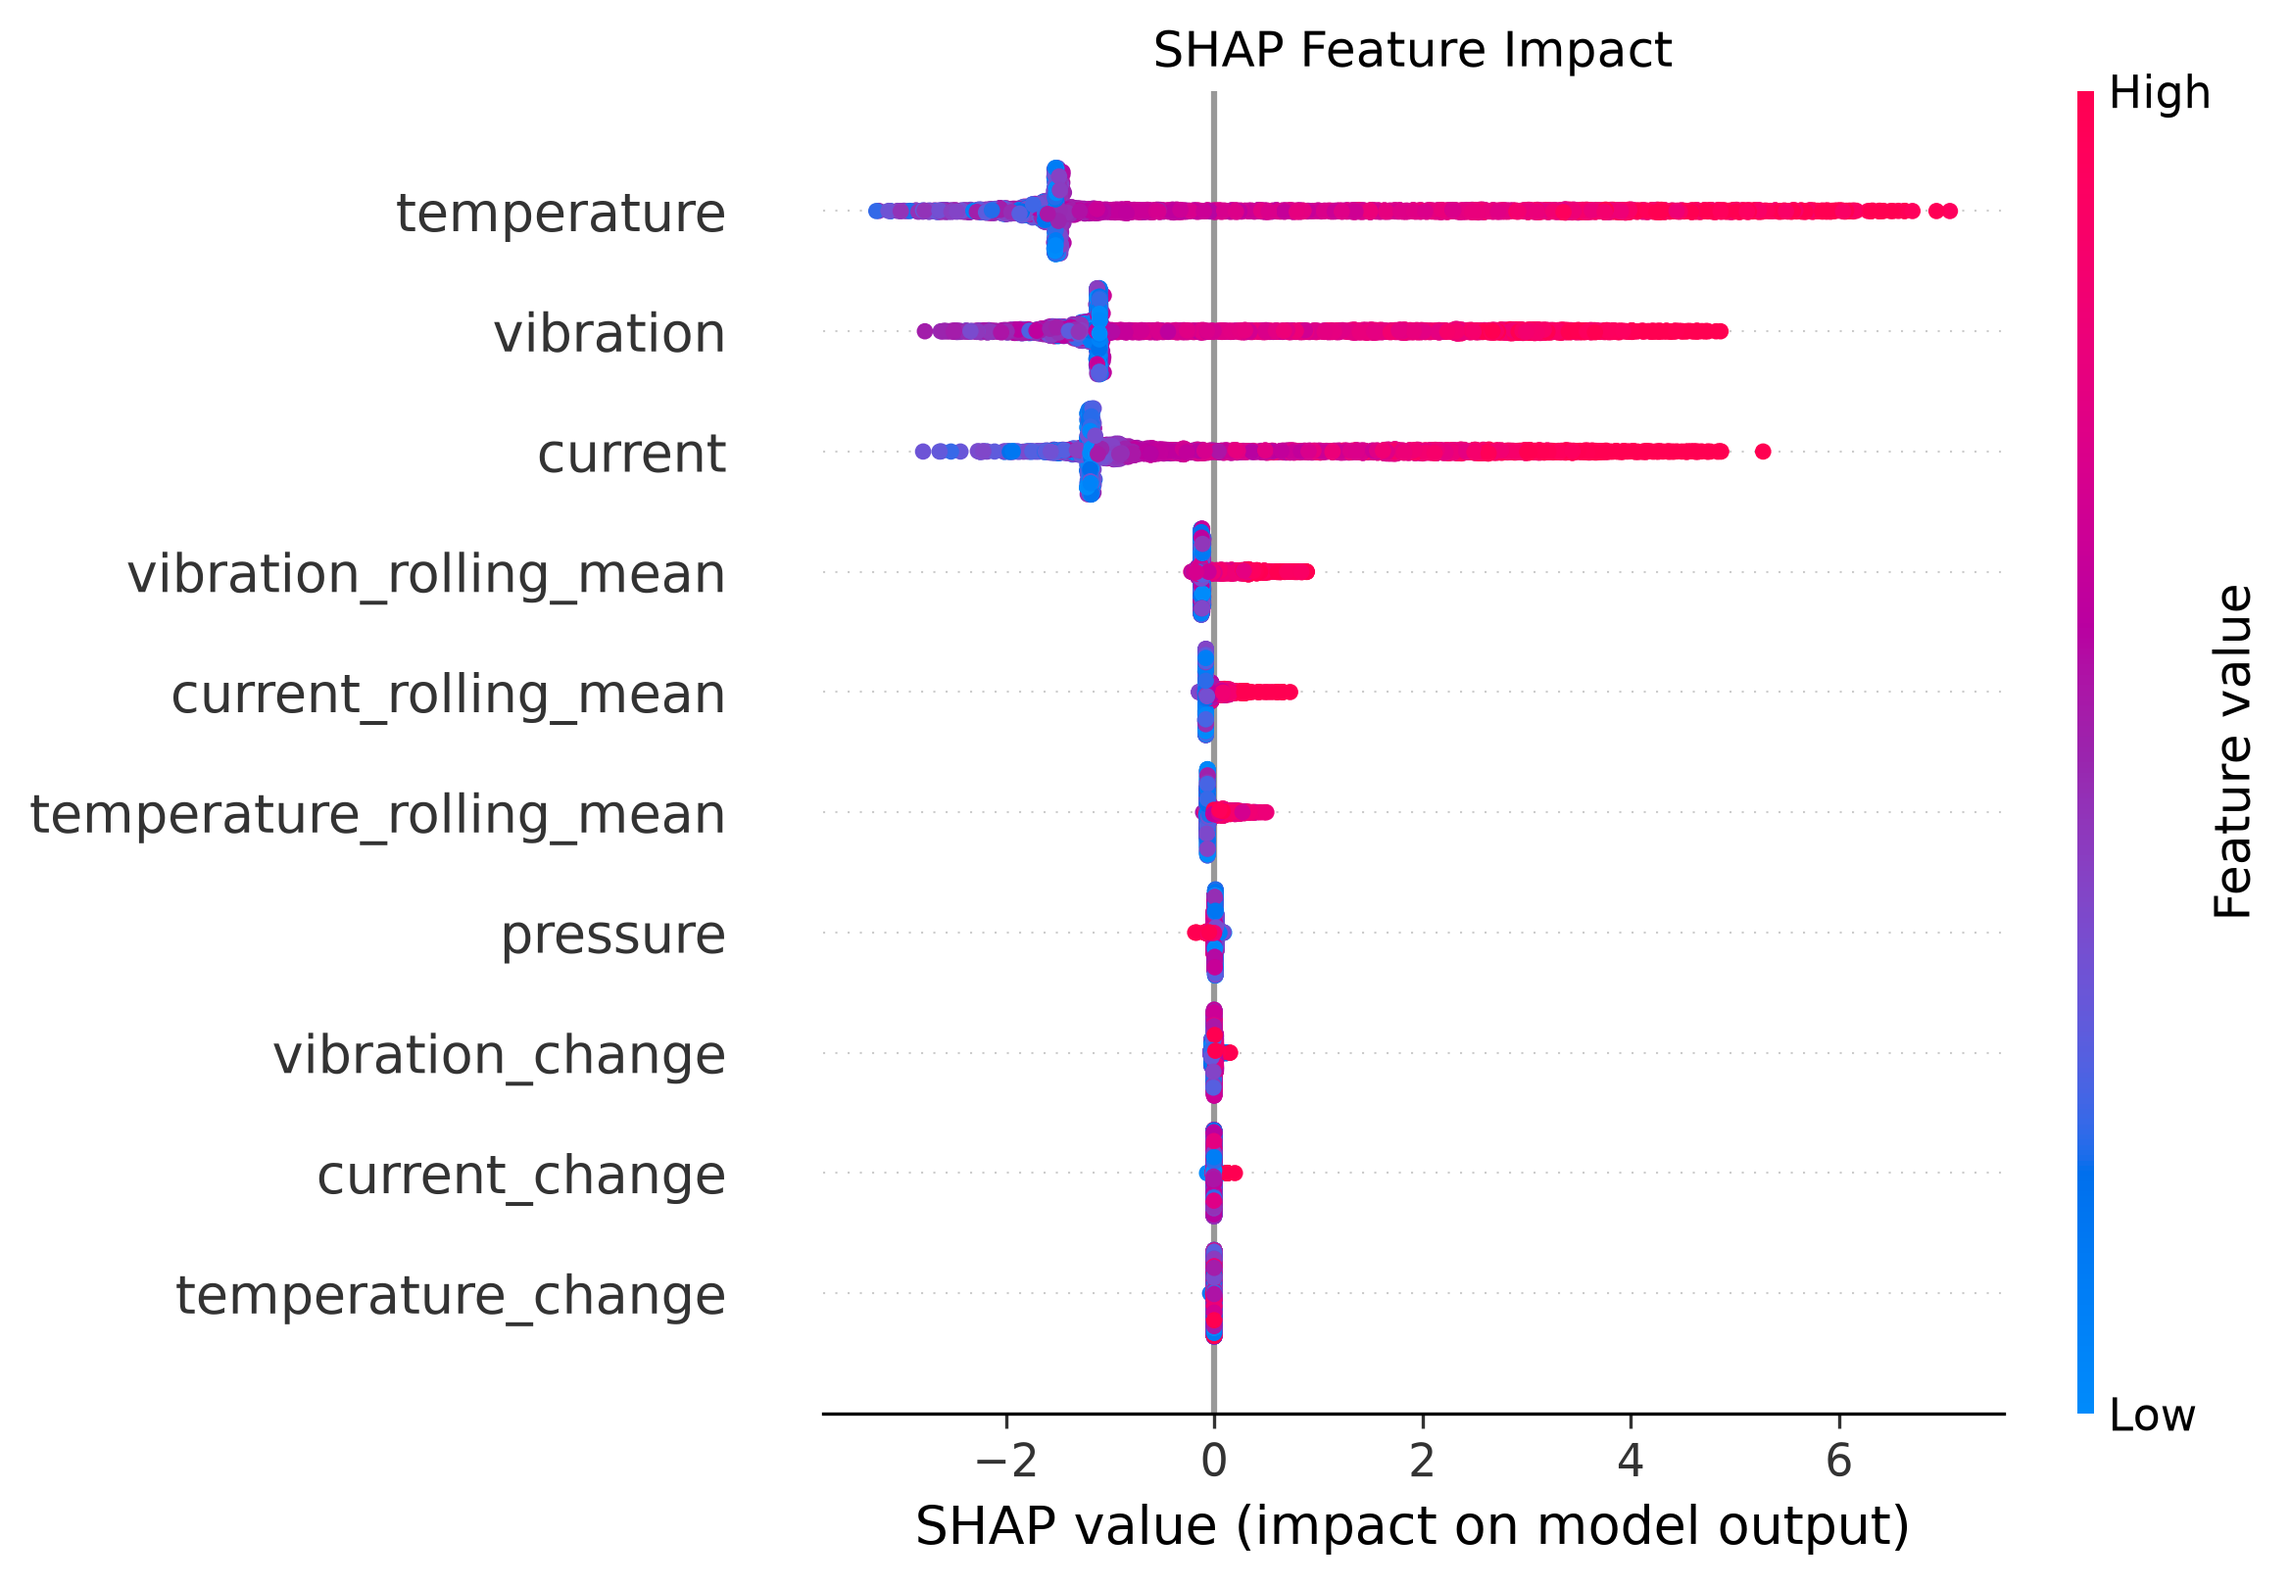
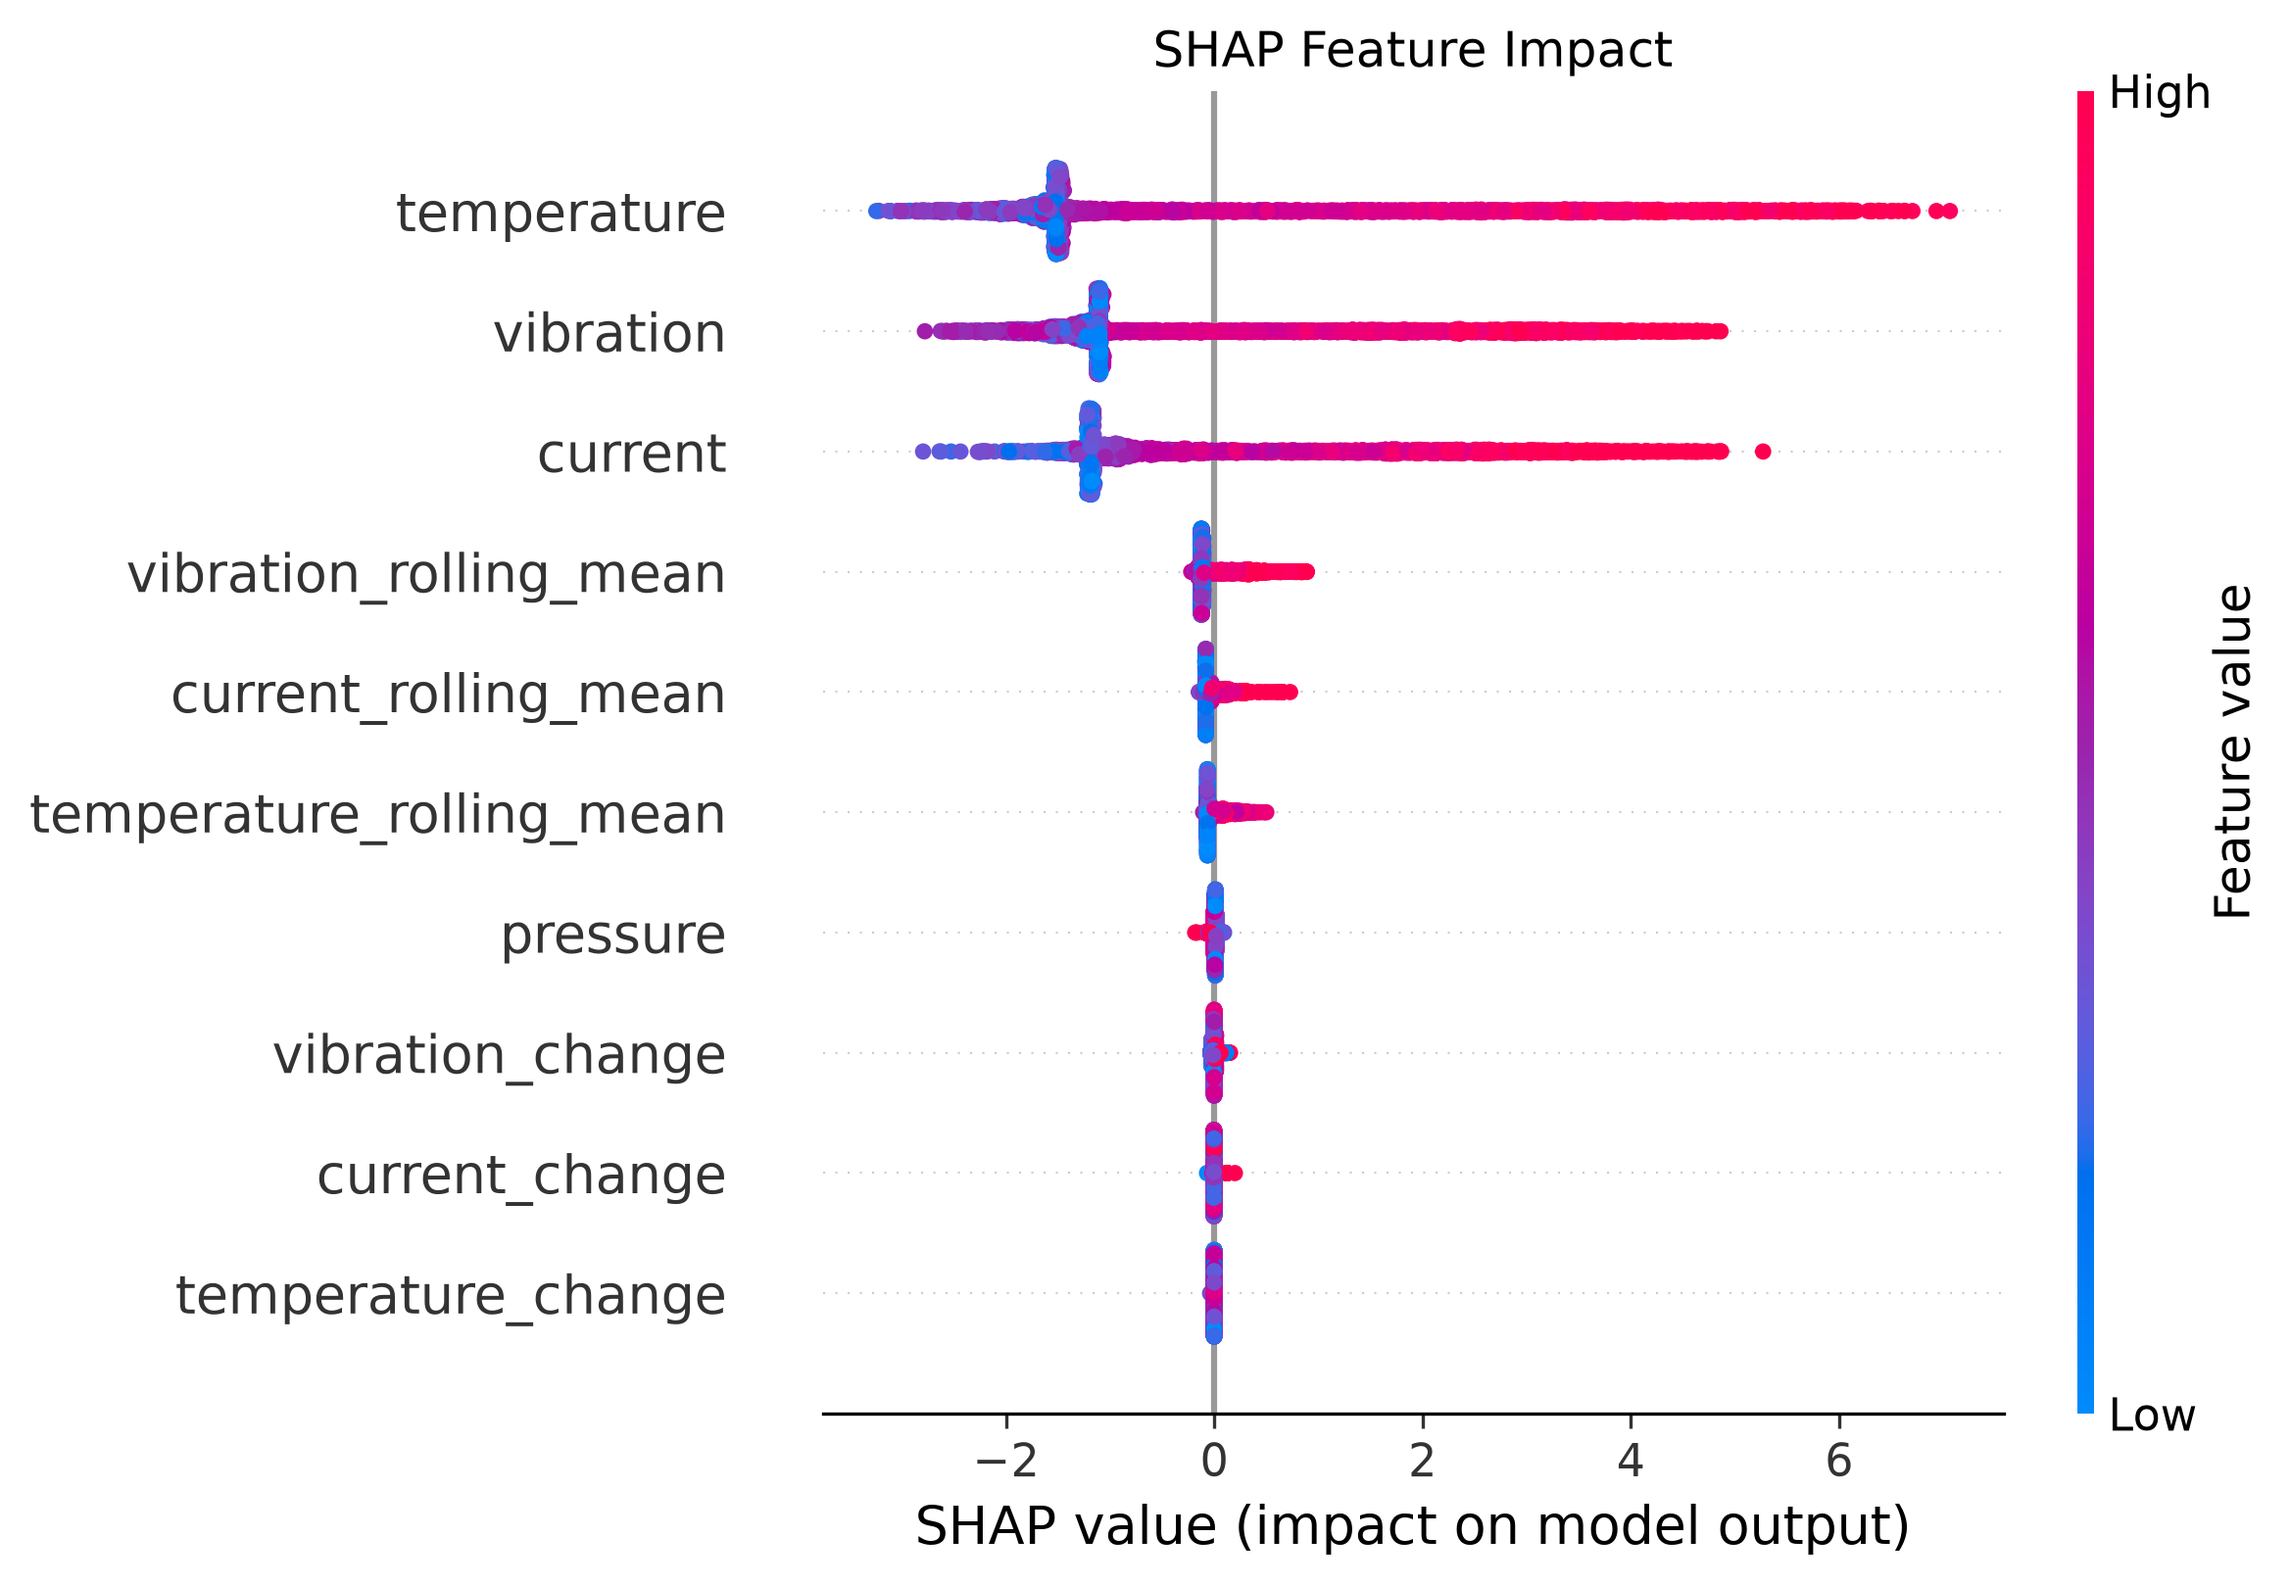
Update README and analysis results

diff --git a/README.md b/README.md
@@ -297,12 +297,6 @@ Dashboard 包含：
 啟動 Dashboard：
 
 ```bash
-streamlit run app.py
-```
-
-如果 Windows 環境找不到 `streamlit` 指令，也可以使用：
-
-```bash
 python -m streamlit run app.py
 ```
 
